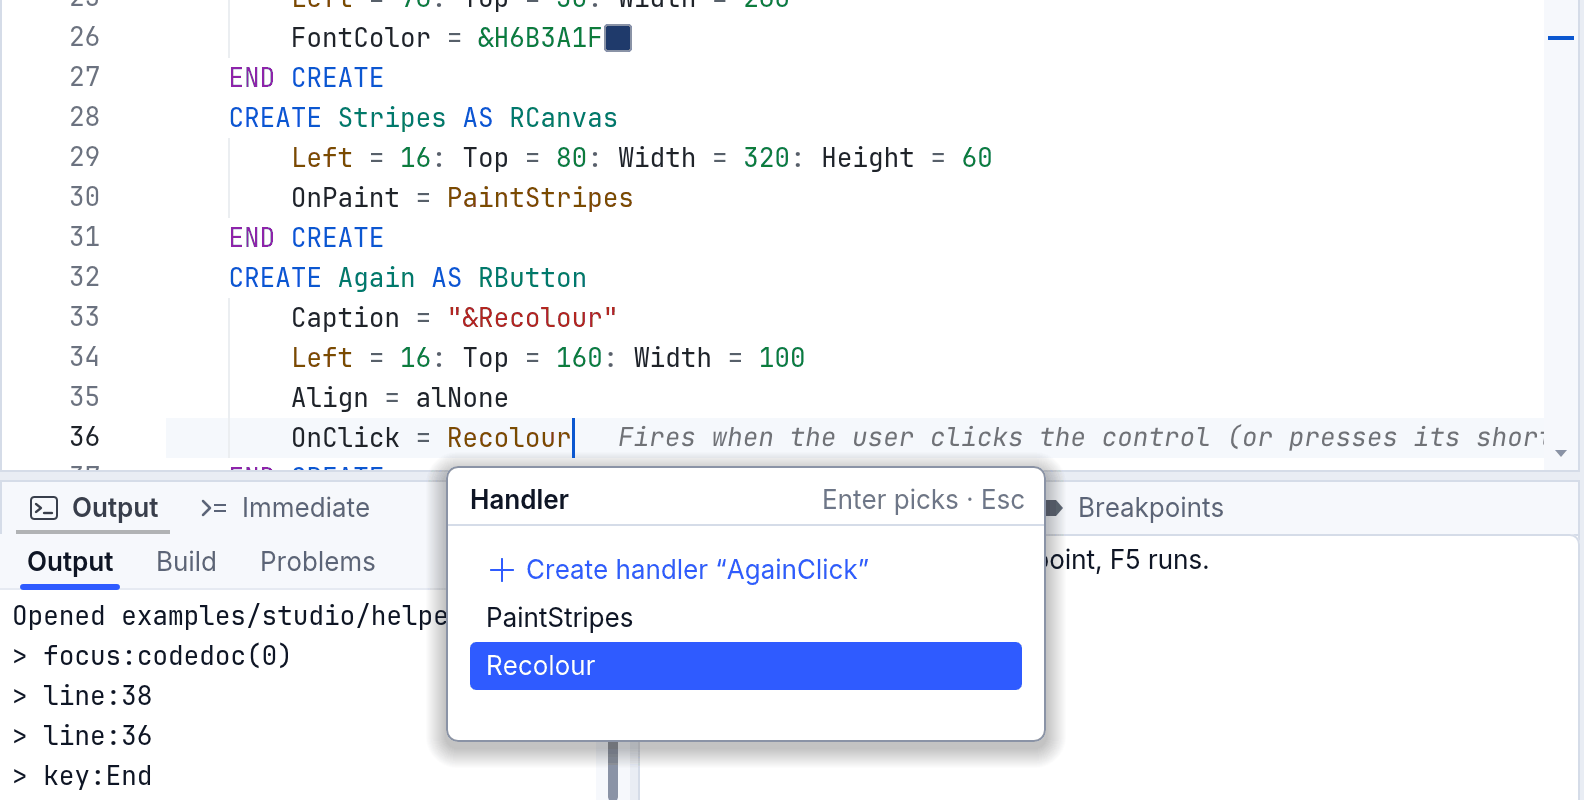
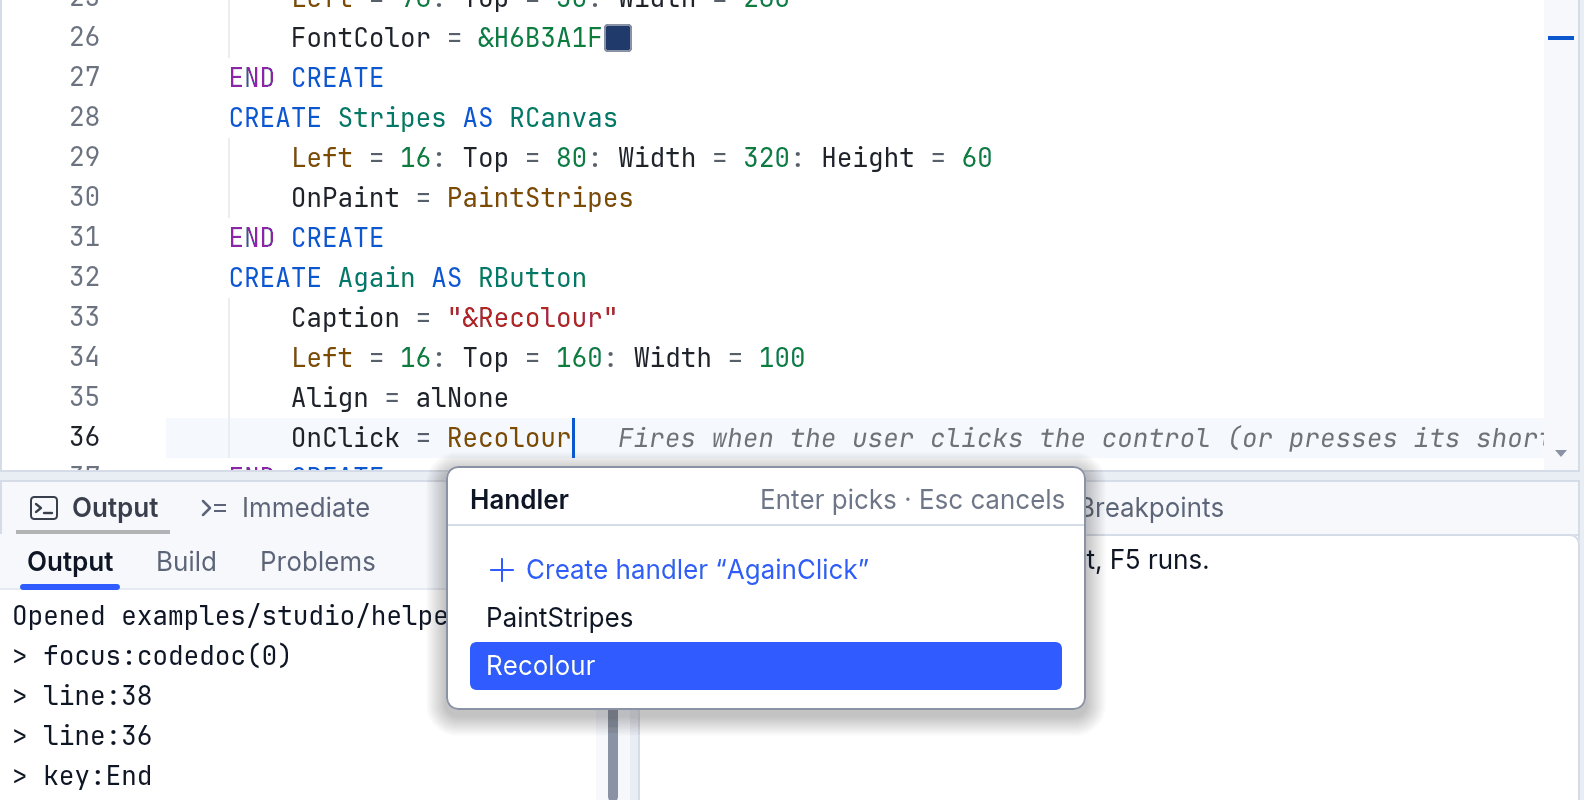
Helpers, from the real walk: editors hold their parts, follow their value, say their keys whole
What the walk on the real screen found, fixed:
- The font editor's preview line sat under Apply and Cancel, and in the
  Properties panel its Italic box fell outside the editor (its box's width
  and height were swapped); a picture editor with one picture drew its
  preview past its bottom. List editors now size from their parts (list,
  preview, size and style row, buttons), checked by a test.
- An editor stayed where it was opened when the window was resized or the
  view scrolled, over other code. It now follows its value (the code
  editor's row, the Properties panel's) and closes, writing nothing, when
  that goes out of sight. Kernel test.
- The keys' reminder read cut off ("Enter keeps · Esc"): now whole ("Enter
  keeps · Esc cancels"), shown only where it fits.
- The "Aa" font sample read as part of the code ("Inter"Aa): it sits on a
  small tile now. Argument-name chips fill their columns, the same small gap
  before every argument.
- The manual and CHANGELOG no longer say the fonts list shows each font in
  its own face: programs draw with RapidR's built-in faces, and the samples
  show what the program will draw.
Studio goldens: debug-variables and debug-breakpoints (the chips' labels
centred), looked at and approved. Manual pictures regenerated.

Changed region(s): [[0.2475, 0.5312, 0.7424, 0.9688], [0.8352, 0.5312, 0.959, 0.5625], [0.7734, 0.5312, 0.8043, 0.5625]]

diff --git a/crates/rapidr-ui-kernel/src/value_edit/mod.rs b/crates/rapidr-ui-kernel/src/value_edit/mod.rs
@@ -168,6 +168,12 @@ pub struct Popover {
 
 const TITLE_H: i64 = 30;
 const PAD: i64 = 10;
+/// A font's preview line, its size and style row, a picture's preview.
+const PREVIEW_H: i64 = 48;
+const ROW_H: i64 = 28;
+const PICTURE_H: i64 = 140;
+/// Apply and Cancel's row, with its margins.
+const BUTTONS_H: i64 = 8 + 30 + 8;
 
 impl Popover {
     /// A colour editor of `value` (the project's colours its palette).
@@ -201,18 +207,22 @@ impl Popover {
     pub fn size(&self) -> (i64, i64) {
         match &self.editor {
             Editor::Color(c) => (color::WIDTH, TITLE_H + c.height()),
-            Editor::List { list, kind, size, .. } => {
+            Editor::List { list, kind, size, style, .. } => {
                 let w = match kind {
                     ListKind::File(FileKind::Image) => 420,
                     ListKind::Font => 380,
-                    _ => 300,
+                    _ => 320,
                 };
-                let extra = match kind {
-                    ListKind::Font => 56 + if size.is_some() { 36 } else { 0 },
-                    ListKind::Flags => 44,
-                    _ => 0,
+                // (under the list: a font's preview, its size and style
+                // row, Apply and Cancel; a picture's preview beside it)
+                let list_bottom = 8 + list.height();
+                let body = match kind {
+                    ListKind::Font => list_bottom + 6 + PREVIEW_H + if size.is_some() || style.is_some() { 8 + ROW_H } else { 0 } + BUTTONS_H,
+                    ListKind::Flags => list_bottom + BUTTONS_H,
+                    ListKind::File(FileKind::Image) => (list_bottom + 8).max(8 + PICTURE_H + 6 + 20 + 8),
+                    _ => list_bottom + 8,
                 };
-                (w, TITLE_H + list.height() + extra + PAD + 6)
+                (w, TITLE_H + body)
             }
         }
     }
@@ -429,13 +439,17 @@ impl Popover {
         let th = text_size("Ag", font).1;
         p.text((r.0 + PAD + 2, r.1 + (TITLE_H - th) / 2 + 2, r.2 - 2 * PAD, th), &self.title, &bold, look.text, Place::TopLeft);
         let keys = match &self.editor {
-            Editor::Color(_) => "Enter keeps · Esc",
-            Editor::List { kind: ListKind::Flags, .. } => "Space ticks · Enter",
-            Editor::List { kind: ListKind::Bool, .. } => "Space turns · Enter",
-            _ => "Enter picks · Esc",
+            Editor::Color(_) => "Enter keeps · Esc cancels",
+            Editor::List { kind: ListKind::Flags, .. } => "Space ticks · Enter keeps",
+            Editor::List { kind: ListKind::Bool, .. } => "Space turns · Enter keeps",
+            _ => "Enter picks · Esc cancels",
         };
+        // (the keys' reminder where it fits beside the heading — whole or
+        // not at all; the dialog's description says them too)
         let kw = text_size(keys, font).0;
-        p.text((r.0 + r.2 - PAD - kw, r.1 + (TITLE_H - th) / 2 + 2, kw + 2, th), keys, font, look.dim, Place::TopLeft);
+        if text_size(&self.title, &bold).0 + kw + 3 * PAD <= r.2 {
+            p.text((r.0 + r.2 - PAD - kw, r.1 + (TITLE_H - th) / 2 + 2, kw + 2, th), keys, font, look.dim, Place::TopLeft);
+        }
         p.fill((r.0 + 1, r.1 + TITLE_H - 1, r.2 - 2, 1), look.border);
         let body = (r.0, r.1 + TITLE_H, r.2, r.3 - TITLE_H);
         match &self.editor {
@@ -447,7 +461,7 @@ impl Popover {
                 match kind {
                     ListKind::File(FileKind::Image) => {
                         // (the selected picture's preview, beside the list)
-                        let pv = (body.0 + lr.0 + lr.2 + 10, body.1 + lr.1, body.2 - lr.2 - lr.0 - 2 * PAD, 140);
+                        let pv = (body.0 + lr.0 + lr.2 + 10, body.1 + lr.1, body.2 - lr.2 - lr.0 - 2 * PAD, PICTURE_H);
                         p.round(pv, 4.0, Some(look.field), Some(look.border), 1.0);
                         if let Some(i) = list.selected() {
                             let it = &list.items[i];
@@ -469,7 +483,7 @@ impl Popover {
                         let pt = size.as_ref().and_then(|f| f.text.parse::<i64>().ok()).unwrap_or(14).clamp(6, 36);
                         let (b, it) = style.unwrap_or((false, false));
                         let sample = Font { name: name.clone(), size: pt, styles: u8::from(b) | (u8::from(it) << 1), ..Font::default() };
-                        let pr = (body.0 + PAD, body.1 + lr.1 + lr.3 + 6, body.2 - 2 * PAD, 48);
+                        let pr = (body.0 + PAD, body.1 + lr.1 + lr.3 + 6, body.2 - 2 * PAD, PREVIEW_H);
                         p.round(pr, 4.0, Some(look.field), Some(look.border), 1.0);
                         p.clipped(pr, |p| p.text((pr.0 + 8, pr.1, pr.2 - 16, pr.3), "The quick brown fox 0123", &sample, look.text, Place::Left));
                         let (sr, br, ir) = font_parts(lr, body.2);
@@ -563,8 +577,8 @@ fn list_rect(list: &ListEd, body: Rect, kind: ListKind) -> Rect {
 /// A font editor's size field, Bold and Italic toggles (relative), under
 /// its preview.
 fn font_parts(lr: Rect, w: i64) -> (Rect, Rect, Rect) {
-    let y = lr.1 + lr.3 + 6 + 48 + 8;
-    ((PAD, y, 110, 28), (PAD + 120, y, 80, 28), (PAD + 210, y, 80, w - PAD - 210 - PAD))
+    let y = lr.1 + lr.3 + 6 + PREVIEW_H + 8;
+    ((PAD, y, 110, ROW_H), (PAD + 120, y, 80, ROW_H), (PAD + 210, y, w - PAD - 210 - PAD, ROW_H))
 }
 
 /// Apply and Cancel at a body's bottom right (relative).
@@ -803,6 +817,49 @@ mod tests {
         p.place((1200, 800));
         assert_eq!(p.rect.0, 168);
         assert!(p.rect.1 + h <= 800 && p.rect.1 >= 0 && !(p.rect.0 < 160 && p.rect.0 + w > 100));
+    }
+
+    /// Every part of a list editor inside it, none over another (a font's
+    /// preview, its size and style row, Apply and Cancel; a picture's
+    /// preview with its name, with a single picture in the list).
+    #[test]
+    fn a_list_editor_holds_its_parts() {
+        let inside = |r: Rect, w: i64, h: i64| r.0 >= 0 && r.1 >= 0 && r.0 + r.2 <= w && r.1 + r.3 <= h;
+        let apart = |a: Rect, b: Rect| a.1 + a.3 <= b.1 || b.1 + b.3 <= a.1 || a.0 + a.2 <= b.0 || b.0 + b.2 <= a.0;
+        for (sized, n) in [(false, 1), (true, 1), (false, 30), (true, 30)] {
+            let items = (0..n).map(|i| list::Item::new(format!("Font {i}"))).collect();
+            let mut p = Popover::list(Owner::Inspector("font".into()), ListKind::Font, items, Some(0), (0, 0, 10, 10));
+            if sized {
+                if let Editor::List { size, style, .. } = &mut p.editor {
+                    *size = Some(size_field(10));
+                    *style = Some((false, false));
+                }
+            }
+            let (w, h) = p.size();
+            let body = (w, h - TITLE_H);
+            let Editor::List { list, .. } = &p.editor else { unreachable!() };
+            let lr = list_rect(list, (0, 0, body.0, body.1), ListKind::Font);
+            let preview = (PAD, lr.1 + lr.3 + 6, body.0 - 2 * PAD, PREVIEW_H);
+            let (apply, cancel) = buttons(body.0, body.1);
+            let mut parts = vec![lr, preview, apply, cancel];
+            if sized {
+                let (sr, br, ir) = font_parts(lr, body.0);
+                parts.extend([sr, br, ir]);
+            }
+            for (i, a) in parts.iter().enumerate() {
+                assert!(inside(*a, body.0, body.1), "part {i} {a:?} outside {body:?} (sized {sized}, {n} fonts)");
+                for b in &parts[i + 1..] {
+                    assert!(apart(*a, *b), "{a:?} over {b:?} (sized {sized}, {n} fonts)");
+                }
+            }
+        }
+        let p = Popover::list(Owner::Inspector("picture".into()), ListKind::File(FileKind::Image), vec![list::Item::new("logo.svg")], Some(0), (0, 0, 10, 10));
+        let (w, h) = p.size();
+        let Editor::List { list, .. } = &p.editor else { unreachable!() };
+        let lr = list_rect(list, (0, 0, w, h - TITLE_H), ListKind::File(FileKind::Image));
+        // (the preview and its name under it)
+        assert!(lr.1 + PICTURE_H + 6 + 20 <= h - TITLE_H, "{h}");
+        assert!(lr.0 + lr.2 + 10 + 2 * PAD <= w);
     }
 }
 

diff --git a/crates/rapidr-ui-kernel/src/components/codeeditor/helpers.rs b/crates/rapidr-ui-kernel/src/components/codeeditor/helpers.rs
@@ -194,11 +194,12 @@ pub fn paint_decos(x: &mut Ctx, p: &mut Painter, shown: &[Shown]) {
             if chip {
                 // (the code's font is monospaced: the label's width counted,
                 // never measured — a frame shapes nothing for it)
+                // (the pill fills its columns but a small gap before the
+                // argument, the same gap for a short name and a long one)
                 let label = format!("{}:", site.label);
-                let tw = (label.chars().count() as f64 * x.ui.metrics.ch * chip_scale).ceil() as i64;
-                let pill = (r.0, r.1 + 3, (tw + 8).min(r.2 - 2).max(6), r.3 - 6);
+                let pill = (r.0, r.1 + 3, (r.2 - 5).max(6), r.3 - 6);
                 p.round(pill, 4.0, Some(chip_bg), None, 1.0);
-                p.text((pill.0 + 4, pill.1, pill.2, pill.3), &label, &chip_font, chip_ink, Place::Left);
+                p.text(pill, &label, &chip_font, chip_ink, Place::Center);
                 continue;
             }
             paint_mark(p, site, r, &folder, &x.c.helpers, sc, t, &code);
@@ -218,8 +219,12 @@ fn paint_mark(p: &mut Painter, site: &HelperSite, r: Rect, folder: &str, helpers
             crate::value_view::swatch(p, sq, s.rgb(t), true);
         }
         HelperKind::Font => {
-            let f = Font { name: site.value.clone(), ..code.clone() };
-            p.clipped(r, |p| p.text(r, "Aa", &f, sc.text, Place::Center));
+            // (a sample on a small tile: a mark, never read as the code's
+            // own text)
+            let tile = (r.0 + 1, r.1 + 3, (r.2 - 2).max(6), (r.3 - 6).max(6));
+            p.round(tile, 3.0, Some(blend(sc.text, sc.background, if sc.dark { 0.14 } else { 0.07 })), Some(blend(sc.text, sc.background, 0.3)), 1.0);
+            let f = Font { name: site.value.clone(), size: -(((tile.3 as f64) * 0.72).round() as i64).max(7), ..code.clone() };
+            p.clipped(tile, |p| p.text(tile, "Aa", &f, sc.text, Place::Center));
         }
         HelperKind::File => {
             let there = file_there(helpers, folder, &site.value);
@@ -457,6 +462,30 @@ pub fn open(x: &mut Ctx, i: usize) {
     x.c.helpers.editor_text = said;
     x.c.completion = None;
     x.c.hover = None;
+}
+
+/// An open editor follows its value as the code scrolls or the window
+/// resizes; its value out of sight, it closes (nothing written).
+pub fn follow(x: &mut Ctx) {
+    let Some(site) = value_edit::with(x.id, |p| match &p.owner {
+        Owner::Code(s) => Some(s.clone()),
+        Owner::Inspector(_) => None,
+    })
+    .flatten() else {
+        return;
+    };
+    let line = x.c.doc.buffer().line_of(site.end.min(x.c.doc.len_bytes()));
+    let top = x.ui.geo.text.1 as f64;
+    let bottom = top + x.ui.geo.text.3 as f64;
+    let lh = x.ui.lh();
+    let seen = x.ui.shown.iter().any(|sh| sh.row.line == line && sh.top + lh > top && sh.top < bottom);
+    if !seen {
+        value_edit::close(x.id);
+        x.c.helpers.editor_text.clear();
+        return;
+    }
+    let a = anchor_of(x, &site);
+    value_edit::with(x.id, |p| p.anchor = a);
 }
 
 /// A new SUB's name not taken (`Button1Click`, else `Button1Click2` …).

diff --git a/crates/rapidr-ui-kernel/src/components/codeeditor/helper_tests.rs b/crates/rapidr-ui-kernel/src/components/codeeditor/helper_tests.rs
@@ -479,3 +479,37 @@ fn the_editor_hangs_from_its_value() {
     let node_top = f.nodes.iter().find(|n| n.id == "hl9").unwrap().abs.1;
     assert_eq!(anchor.1, node_top + top.round() as i64, "the value's row, not the editor's top");
 }
+
+/// The editor follows its value as the view scrolls or the editor
+/// resizes; its value scrolled out of sight, it closes and nothing is
+/// written (a resized window once left it hanging over other code).
+#[test]
+fn the_editor_follows_its_value_and_closes_out_of_sight() {
+    let mut code: String = (0..80).map(|i| format!("PRINT {i}\n")).collect();
+    code.push_str("Form1.Color = RGB(1, 2, 3)\n");
+    code.push_str(&(0..80).map(|i| format!("PRINT {i}\n")).collect::<String>());
+    let (mut s, mut f, mut ts) = form("hl10", &code);
+    f.focus_id(&s, "hl10");
+    set_sites("hl10", vec![site(&code, "RGB(1, 2, 3)", HelperKind::Color, "197121", "rgb")]);
+    f.paint(&s, &mut ts, 1.0);
+    s.call("hl10", "gotoline", &[v_int(80)]);
+    key(&mut f, &s, &mut ts, 35, "", Mods::NONE);
+    key(&mut f, &s, &mut ts, 190, ".", CMD);
+    f.paint(&s, &mut ts, 1.0);
+    let before = crate::value_edit::with("hl10", |p| p.anchor).unwrap();
+    // (the editor moved down in its form: its anchor follows the row)
+    s.set("hl10", "top", v_int(40));
+    f.sync(&s);
+    f.paint(&s, &mut ts, 1.0);
+    let at = code.find("RGB(1").unwrap();
+    let (_, top) = caret_at(&f, "hl10", at);
+    let node_top = f.nodes.iter().find(|n| n.id == "hl10").unwrap().abs.1;
+    let after = crate::value_edit::with("hl10", |p| p.anchor).expect("still open: its row in sight");
+    assert_eq!(after.1, node_top + top.round() as i64, "follows its row ({before:?} then {after:?})");
+    // (scrolled far away: it closes, the code as it was)
+    s.call("hl10", "gotoline", &[v_int(0)]);
+    f.paint(&s, &mut ts, 1.0);
+    assert!(!crate::value_edit::is_open("hl10"), "closed with its row out of sight");
+    assert!(with_code("hl10", |c| c.doc.text().contains("RGB(1, 2, 3)")).unwrap());
+    assert_eq!(with_code("hl10", |c| c.helpers.editor_text.clone()).unwrap(), "");
+}

diff --git a/crates/rapidr-ui-kernel/src/components/panels/inspector/mod.rs b/crates/rapidr-ui-kernel/src/components/panels/inspector/mod.rs
@@ -330,6 +330,31 @@ fn anchor(cx: &Cx, v: &V, i: usize) -> Rect {
     (cx.rect.0 + vx, cx.rect.1 + y, vw, h)
 }
 
+/// An open value editor follows its row as the panel scrolls or resizes;
+/// its row out of sight (or gone), it closes — nothing written.
+fn follow(cx: &Cx, v: &V) {
+    use crate::value_edit::{self, Owner};
+    let Some(key) = value_edit::with(cx.id, |p| match &p.owner {
+        Owner::Inspector(k) => Some(k.clone()),
+        Owner::Code(_) => None,
+    })
+    .flatten() else {
+        return;
+    };
+    let Some(i) = v.rows.iter().position(|r| r.key == key) else {
+        value_edit::close(cx.id);
+        return;
+    };
+    let rr = v.row_rect(i);
+    let (_, ly, _, lh) = v.g.list;
+    if rr.1 + rr.3 <= ly || rr.1 >= ly + lh {
+        value_edit::close(cx.id);
+        return;
+    }
+    let a = anchor(cx, v, i);
+    value_edit::with(cx.id, |p| p.anchor = a);
+}
+
 /// The shared value editors (docs/code-helpers-plan.md E1: the code's
 /// helpers open the same ones): a colour row's colour editor, a font row's
 /// font editor. Whether row `i` has one.
@@ -833,6 +858,7 @@ impl ComponentKind for Inspector {
         v.pos = pos;
         v.cw = cw;
         v.nw = geo::name_width(&v.m, cw);
+        follow(cx, &v);
         let editing = editing_key(cx.id);
         if editing.is_none() {
             list::drop_editor(cx);

diff --git a/crates/rapidr-ui-kernel/src/components/codeeditor/paint.rs b/crates/rapidr-ui-kernel/src/components/codeeditor/paint.rs
@@ -474,6 +474,7 @@ fn paint_text(x: &mut Ctx, p: &mut Painter, caret_on: bool) {
     // line's note and a paused program's values at the lines' ends
     super::helpers::paint_decos(x, p, &shown);
     super::helpers::paint_line_ends(x, p, &shown, head_line);
+    super::helpers::follow(x);
     // whitespace
     if x.c.opts.show_whitespace {
         for sh in &shown {

diff --git a/docs/manual/studio-editor.md b/docs/manual/studio-editor.md
@@ -195,7 +195,7 @@ underlines it, and the fix writes the test that works,
 
 The code shows its own values. When a line sets a colour, a small swatch of
 that colour sits right after it; a picture's name shows the picture; a
-font's name shows a sample in that font. Click the mark, or put the caret
+font's name shows a small sample. Click the mark, or put the caret
 on the value and press **Ctrl+.**, and an editor opens beside it. What you
 pick is written back into your code, as one step that **Ctrl+Z** undoes.
 
@@ -240,9 +240,12 @@ anywhere else on your computer, and nothing is fetched from the internet.
 
 ### Fonts
 
-A font's name (`TitleFont.Name = "Inter"`) shows a sample in that font. Its
-editor lists the fonts on your computer, each in its own face, with a
-preview line.
+A font's name (`TitleFont.Name = "Inter"`) shows a small "Aa" sample. Its
+editor lists the fonts on your computer with a preview line (in the
+Properties panel, the size, Bold and Italic too). The sample and the preview
+are drawn the way your program will draw the font: RapidR draws every
+program with its own built-in faces, so a program looks the same on every
+computer, and a font it doesn't have is drawn in the nearest of them.
 
 ### Choices, True or False, and links
 

diff --git a/CHANGELOG.md b/CHANGELOG.md
@@ -12,12 +12,12 @@ project uses [Semantic Versioning](https://semver.org/). Planned work lives in
   E2, E6; docs/code-helpers-plan.md). In RapidR Studio's code editor, desktop
   and web alike: a colour written as `RGB(…)`, `&H…` or a constant shows a
   swatch after it; a picture's name its thumbnail, or a red mark when the
-  file isn't in the project; a font's name a sample in that font; a sound a
+  file isn't in the project; a font's name a small sample; a sound a
   ▶. A click on a mark, or Ctrl+. (Cmd+.) on a value, opens a value editor:
   a colour wheel around a saturation-and-brightness square with the Red,
   Green, Blue and Hex numbers, the name in words, the old colour beside the
   new and the project's, standard and system colours; the project's
-  pictures with a preview; the fonts in their own faces; a constant set's
+  pictures with a preview; the fonts with a preview line; a constant set's
   choices (ticks for flags, a toggle for True/False); the program's SUBs and
   **Create handler**, which writes the new SUB and the link as one step.
   What is picked is written back as one undo step in the code's own form
